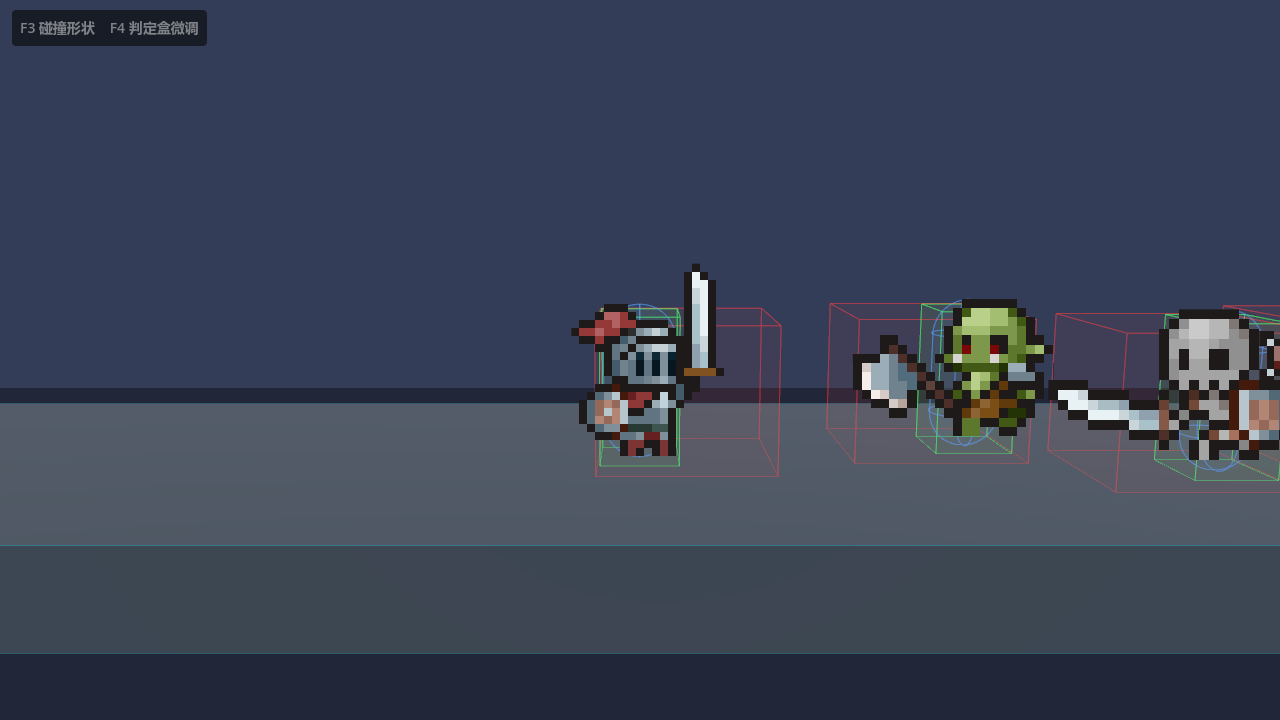
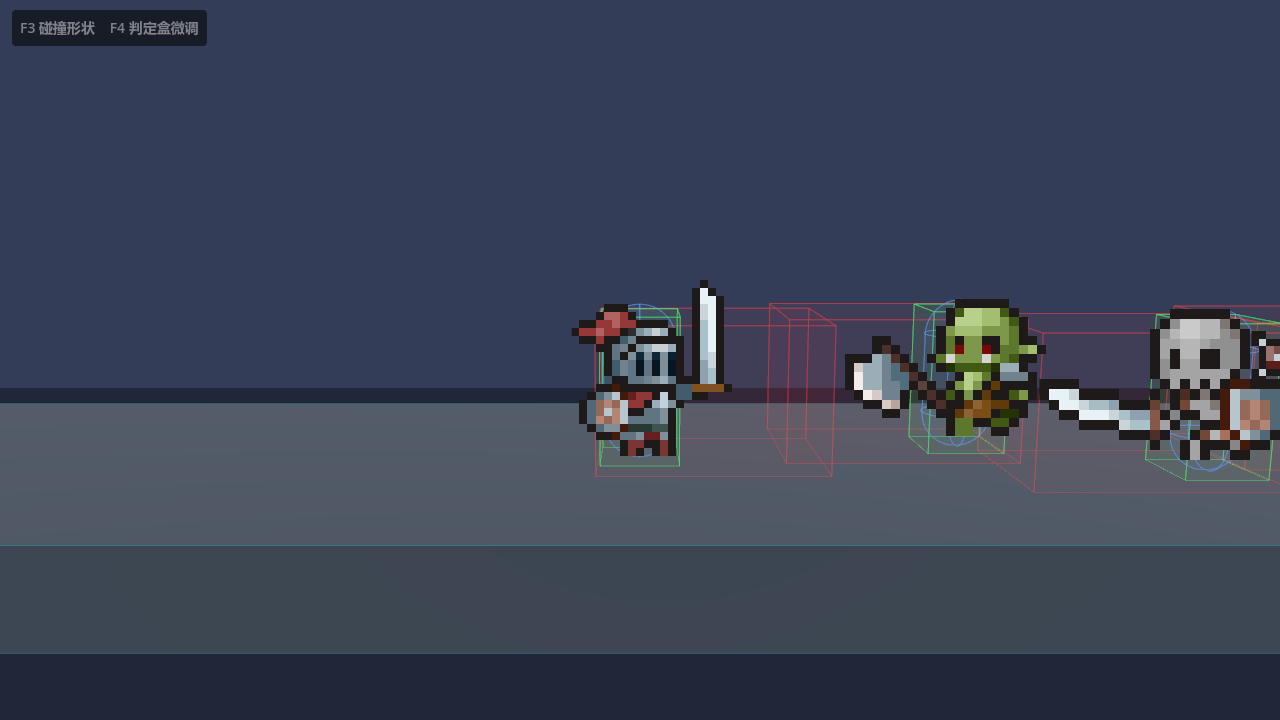
fix(combat): 判定盒前伸与判定窗口改成逐角色
之前所有角色共用一个 reach（1.45）和一段判定窗口（0.17~0.27 s），
但每个角色武器长短和动画节奏差很多：

  角色         武器挥到最远   原判定前沿
  knight        2.04 m       1.51 m
  orc           2.14 m       1.51 m
  skeleton      2.19 m       1.51 m
  armored_orc   1.98 m       1.51 m

主角剑长，1.51 m 看起来还包得住；orc 斧子短，盒子就明显超出去一截。
而且 0.17~0.27 s 那一段，很多角色还停在「武器收着」的帧上 ——
盒子会在武器没挥出去的时候亮着。

现在两个数都由 normalize_sprites.py 从图集算进 manifest：
  melee_reach    = attack1 里武器伸得最远的那一帧（相对身体锚点）
  melee_windup / melee_active = 前伸 >= 峰值 90% 的那几帧的时间段
GameRoot 按角色写进 melee.range 和 action_profile。

新增 1 个回归测试（每个角色的 reach 必须等于图集算出来的值）。

Changed region(s): [[0.5312, 0.3667, 1.0, 0.6722], [0.625, 0.6417, 0.6562, 0.6722]]

diff --git a/tools/normalize_sprites.py b/tools/normalize_sprites.py
@@ -81,6 +81,44 @@ def body_anchor_x(frames):
     return (body[0] + body[-1] + 1) * 0.5
 
 
+def melee_reach(frames, anchor_x, pixel_size):
+    """普攻前伸：attack1 里武器伸得最远的那一帧，相对身体锚点的米数。
+
+    判定盒前沿就用它。各角色武器长短差一倍（orc 2.14 m、armored_orc 1.98 m），
+    共用一个常量必然对不上 —— 剑长的角色盒子偏短，斧子短的角色盒子偏长。
+    """
+    far = 0
+    for frame in frames:
+        box = frame.getbbox()
+        if box is not None:
+            far = max(far, box[2])
+    return round(max(far - anchor_x, 0.0) * pixel_size, 3)
+
+
+SPRITE_FPS = 12.0
+
+
+def melee_window(frames, anchor_x, pixel_size, ratio=0.9):
+    """普攻判定窗口：武器真正挥出去的那几帧，返回 (windup 秒, active 秒)。
+
+    判定盒只在 ACTIVE 段亮，而 ACTIVE 段原来写死 0.17~0.27 秒 —— 各角色动画
+    长度不同，这一段经常落在「武器还收着」的帧上，看起来就是盒子比武器大一圈。
+    这里直接按图集算：前伸 >= 峰值 90% 的帧算判定帧。
+    """
+    extents = []
+    for frame in frames:
+        box = frame.getbbox()
+        extents.append((box[2] - anchor_x) * pixel_size if box is not None else 0.0)
+    peak = max(extents) if extents else 0.0
+    if peak <= 0.0:
+        return 0.0, 0.0
+    active = [i for i, e in enumerate(extents) if e >= peak * ratio]
+    if not active:
+        return 0.0, 0.0
+    first, last = active[0], active[-1]
+    return round(first / SPRITE_FPS, 3), round((last - first + 1) / SPRITE_FPS, 3)
+
+
 def main():
     with io.open(MANIFEST, encoding="utf-8") as f:
         manifest = json.load(f)
@@ -99,6 +137,16 @@ def main():
         anchor_x = body_anchor_x(
             load_frames(os.path.join(char_dir, anims[ref_name]["file"]), anims[ref_name]["frames"]))
         anchor_y = ref[3]                      # 脚底
+        # 必须在裁剪循环之前算 —— 裁剪会把图集覆盖成紧贴内容的版本，
+        # 之后再 load_frames 就按 100px 切不开了。
+        if "attack1" in anims:
+            attack_frames = load_frames(
+                os.path.join(char_dir, anims["attack1"]["file"]), anims["attack1"]["frames"])
+            entry["melee_reach"] = melee_reach(attack_frames, anchor_x, pixel_size)
+            windup, active = melee_window(attack_frames, anchor_x, pixel_size)
+            if windup > 0.0 and active > 0.0:
+                entry["melee_windup"] = windup
+                entry["melee_active"] = active
 
         for name, data in anims.items():
             box = boxes[name]

diff --git a/tools/gen_asset_spec.py b/tools/gen_asset_spec.py
@@ -42,8 +42,8 @@ assets/sprites/characters/<slug>/<slug>_shadow.png
 
 ## 3. 动画帧表（自动生成）
 
-| 角色 | 帧尺寸 | pixel_size | idle | walk | atk1 | atk2 | atk3 | block | hurt | death |
-|---|---|---|---|---|---|---|---|---|---|---|
+| 角色 | 帧尺寸 | pixel_size | idle | walk | atk1 | atk2 | atk3 | block | hurt | death | 普攻前伸 | 判定窗口 |
+|---|---|---|---|---|---|---|---|---|---|---|---|---|
 """
 
 
@@ -66,9 +66,13 @@ def main():
             else:
                 cells.append("-")
         idle_fs = a.get("idle", {}).get("frame_size", ["?", "?"])
-        rows.append("| %s `%s` | %sx%s | %.4f | %s |" % (
+        reach = float(e.get("melee_reach", 0.0))
+        windup = float(e.get("melee_windup", 0.0))
+        active = float(e.get("melee_active", 0.0))
+        window = "%.2f~%.2f s" % (windup, windup + active) if active > 0.0 else "-"
+        rows.append("| %s `%s` | %sx%s | %.4f | %s | %.2f m | %s |" % (
             e["display_name"], slug, idle_fs[0], idle_fs[1],
-            float(e.get("pixel_size", 0.0)), " | ".join(cells)))
+            float(e.get("pixel_size", 0.0)), " | ".join(cells), reach, window))
 
     tail = """
 ## 4. 多层视差背景

diff --git a/ASSET_SPEC.md b/ASSET_SPEC.md
@@ -28,28 +28,28 @@ assets/sprites/characters/<slug>/<slug>_shadow.png
 
 ## 3. 动画帧表（自动生成）
 
-| 角色 | 帧尺寸 | pixel_size | idle | walk | atk1 | atk2 | atk3 | block | hurt | death |
-|---|---|---|---|---|---|---|---|---|---|---|
-| Archer `archer` | 22x18 | 0.1000 | 22x18/6帧 | 22x18/8帧 | 37x22/9帧 | 63x38/12帧 | - | - | 22x17/4帧 | 27x17/4帧 |
-| Armored Axeman `armored_axeman` | 19x20 | 0.0900 | 19x20/6帧 | 19x22/8帧 | 42x31/9帧 | 50x32/9帧 | 63x31/12帧 | - | 15x18/4帧 | 34x21/4帧 |
-| Armored Orc `armored_orc` | 25x20 | 0.0900 | 25x20/6帧 | 25x21/8帧 | 32x31/7帧 | 38x19/8帧 | 62x23/9帧 | 25x19/4帧 | 26x19/4帧 | 42x21/4帧 |
-| Armored Skeleton `armored_skeleton` | 18x24 | 0.0750 | 18x24/6帧 | 18x26/8帧 | 46x26/8帧 | 38x35/9帧 | - | - | 18x23/4帧 | 29x25/4帧 |
-| Elite Orc `elite_orc` | 28x24 | 0.0750 | 28x24/6帧 | 28x24/8帧 | 49x37/7帧 | 58x31/11帧 | 52x46/9帧 | - | 29x23/4帧 | 45x25/4帧 |
-| Greatsword Skeleton `greatsword_skeleton` | 31x20 | 0.0900 | 31x20/6帧 | 33x20/9帧 | 62x32/9帧 | 68x37/12帧 | 42x25/8帧 | - | 32x20/4帧 | 35x21/4帧 |
-| Knight `knight` | 26x19 | 0.0947 | 26x19/6帧 | 26x19/8帧 | 30x26/7帧 | 45x30/10帧 | 58x33/11帧 | 26x18/4帧 | 20x20/4帧 | 26x18/4帧 |
-| Knight Templar `knight_templar` | 27x18 | 0.1000 | 27x18/6帧 | - | 36x17/7帧 | 36x31/8帧 | 39x31/11帧 | 27x17/4帧 | 28x17/4帧 | 28x19/4帧 |
-| Lancer `lancer` | 35x38 | 0.0474 | 35x38/6帧 | - | 57x29/6帧 | 57x29/9帧 | 54x30/8帧 | - | 35x34/4帧 | 40x37/4帧 |
-| Orc `orc` | 22x16 | 0.1125 | 22x16/6帧 | 22x16/8帧 | 37x29/6帧 | 38x33/6帧 | - | - | 23x15/4帧 | 30x18/4帧 |
-| Orc rider `orc_rider` | 32x29 | 0.0621 | 32x29/6帧 | 33x29/8帧 | 43x31/8帧 | 59x63/9帧 | 85x40/11帧 | 32x28/4帧 | 32x27/4帧 | 52x29/4帧 |
-| Priest `priest` | 16x21 | 0.0857 | 16x21/6帧 | 16x22/8帧 | - | - | - | - | 16x19/4帧 | 23x19/4帧 |
-| Skeleton `skeleton` | 26x16 | 0.1125 | 26x16/6帧 | 26x16/8帧 | 35x25/6帧 | 40x18/7帧 | - | 26x15/4帧 | 28x15/4帧 | 34x15/4帧 |
-| Skeleton Archer `skeleton_archer` | 21x22 | 0.0818 | 21x22/6帧 | 21x23/8帧 | - | - | - | - | 21x21/4帧 | 25x21/4帧 |
-| Slime `slime` | 25x17 | 0.1059 | 25x17/6帧 | 28x13/6帧 | 47x16/6帧 | 68x52/12帧 | - | - | 23x13/4帧 | 22x13/4帧 |
-| Soldier `soldier` | 15x19 | 0.0947 | 15x19/6帧 | 15x19/8帧 | 34x27/6帧 | 29x28/6帧 | 36x20/9帧 | - | 16x18/4帧 | 26x18/4帧 |
-| Swordsman `swordsman` | 24x22 | 0.0818 | 24x22/6帧 | 24x23/8帧 | 40x22/7帧 | 56x31/15帧 | - | - | 26x18/5帧 | 37x21/4帧 |
-| Werebear `werebear` | 19x18 | 0.1000 | 19x18/6帧 | 21x19/8帧 | 40x23/9帧 | 39x29/13帧 | 62x23/9帧 | - | 20x18/4帧 | 23x17/4帧 |
-| Werewolf `werewolf` | 27x17 | 0.1059 | 27x17/6帧 | 28x18/8帧 | 35x26/9帧 | 53x37/13帧 | - | - | 26x17/4帧 | 37x19/4帧 |
-| Wizard `wizard` | 17x20 | 0.0900 | 17x20/6帧 | 17x21/8帧 | 21x22/6帧 | 34x26/6帧 | - | - | 17x18/4帧 | - |
+| 角色 | 帧尺寸 | pixel_size | idle | walk | atk1 | atk2 | atk3 | block | hurt | death | 普攻前伸 | 判定窗口 |
+|---|---|---|---|---|---|---|---|---|---|---|---|---|
+| Archer `archer` | 22x18 | 0.1000 | 22x18/6帧 | 22x18/8帧 | 37x22/9帧 | 63x38/12帧 | - | - | 22x17/4帧 | 27x17/4帧 | 2.70 m | 0.50~0.58 s |
+| Armored Axeman `armored_axeman` | 19x20 | 0.0900 | 19x20/6帧 | 19x22/8帧 | 42x31/9帧 | 50x32/9帧 | 63x31/12帧 | - | 15x18/4帧 | 34x21/4帧 | 2.34 m | 0.33~0.42 s |
+| Armored Orc `armored_orc` | 25x20 | 0.0900 | 25x20/6帧 | 25x21/8帧 | 32x31/7帧 | 38x19/8帧 | 62x23/9帧 | 25x19/4帧 | 26x19/4帧 | 42x21/4帧 | 1.98 m | 0.33~0.50 s |
+| Armored Skeleton `armored_skeleton` | 18x24 | 0.0750 | 18x24/6帧 | 18x26/8帧 | 46x26/8帧 | 38x35/9帧 | - | - | 18x23/4帧 | 29x25/4帧 | 2.33 m | 0.33~0.50 s |
+| Elite Orc `elite_orc` | 28x24 | 0.0750 | 28x24/6帧 | 28x24/8帧 | 49x37/7帧 | 58x31/11帧 | 52x46/9帧 | - | 29x23/4帧 | 45x25/4帧 | 1.95 m | 0.25~0.33 s |
+| Greatsword Skeleton `greatsword_skeleton` | 31x20 | 0.0900 | 31x20/6帧 | 33x20/9帧 | 62x32/9帧 | 68x37/12帧 | 42x25/8帧 | - | 32x20/4帧 | 35x21/4帧 | 3.46 m | 0.42~0.58 s |
+| Knight `knight` | 26x19 | 0.0947 | 26x19/6帧 | 26x19/8帧 | 30x26/7帧 | 45x30/10帧 | 58x33/11帧 | 26x18/4帧 | 20x20/4帧 | 26x18/4帧 | 2.04 m | 0.25~0.42 s |
+| Knight Templar `knight_templar` | 27x18 | 0.1000 | 27x18/6帧 | - | 36x17/7帧 | 36x31/8帧 | 39x31/11帧 | 27x17/4帧 | 28x17/4帧 | 28x19/4帧 | 2.90 m | 0.33~0.58 s |
+| Lancer `lancer` | 35x38 | 0.0474 | 35x38/6帧 | - | 57x29/6帧 | 57x29/9帧 | 54x30/8帧 | - | 35x34/4帧 | 40x37/4帧 | 1.80 m | 0.25~0.42 s |
+| Orc `orc` | 22x16 | 0.1125 | 22x16/6帧 | 22x16/8帧 | 37x29/6帧 | 38x33/6帧 | - | - | 23x15/4帧 | 30x18/4帧 | 2.14 m | 0.25~0.42 s |
+| Orc rider `orc_rider` | 32x29 | 0.0621 | 32x29/6帧 | 33x29/8帧 | 43x31/8帧 | 59x63/9帧 | 85x40/11帧 | 32x28/4帧 | 32x27/4帧 | 52x29/4帧 | 1.68 m | 0.33~0.58 s |
+| Priest `priest` | 16x21 | 0.0857 | 16x21/6帧 | 16x22/8帧 | - | - | - | - | 16x19/4帧 | 23x19/4帧 | 0.00 m | - |
+| Skeleton `skeleton` | 26x16 | 0.1125 | 26x16/6帧 | 26x16/8帧 | 35x25/6帧 | 40x18/7帧 | - | 26x15/4帧 | 28x15/4帧 | 34x15/4帧 | 2.19 m | 0.25~0.42 s |
+| Skeleton Archer `skeleton_archer` | 21x22 | 0.0818 | 21x22/6帧 | 21x23/8帧 | - | - | - | - | 21x21/4帧 | 25x21/4帧 | 0.00 m | - |
+| Slime `slime` | 25x17 | 0.1059 | 25x17/6帧 | 28x13/6帧 | 47x16/6帧 | 68x52/12帧 | - | - | 23x13/4帧 | 22x13/4帧 | 3.49 m | 0.25~0.42 s |
+| Soldier `soldier` | 15x19 | 0.0947 | 15x19/6帧 | 15x19/8帧 | 34x27/6帧 | 29x28/6帧 | 36x20/9帧 | - | 16x18/4帧 | 26x18/4帧 | 1.90 m | 0.25~0.42 s |
+| Swordsman `swordsman` | 24x22 | 0.0818 | 24x22/6帧 | 24x23/8帧 | 40x22/7帧 | 56x31/15帧 | - | - | 26x18/5帧 | 37x21/4帧 | 2.46 m | 0.25~0.42 s |
+| Werebear `werebear` | 19x18 | 0.1000 | 19x18/6帧 | 21x19/8帧 | 40x23/9帧 | 39x29/13帧 | 62x23/9帧 | - | 20x18/4帧 | 23x17/4帧 | 3.00 m | 0.42~0.58 s |
+| Werewolf `werewolf` | 27x17 | 0.1059 | 27x17/6帧 | 28x18/8帧 | 35x26/9帧 | 53x37/13帧 | - | - | 26x17/4帧 | 37x19/4帧 | 2.59 m | 0.42~0.58 s |
+| Wizard `wizard` | 17x20 | 0.0900 | 17x20/6帧 | 17x21/8帧 | 21x22/6帧 | 34x26/6帧 | - | - | 17x18/4帧 | - | 1.17 m | 0.25~0.42 s |
 
 ## 4. 多层视差背景
 

diff --git a/CLAUDE.md b/CLAUDE.md
@@ -108,6 +108,13 @@ python -I tools/gen_asset_spec.py
 4. **中心只由 Area3D 的 position 决定**，形状节点必须留在原点。两处各带一个 y 偏移
    会叠加（0.9 + 0.86 = 1.76），整个盒子浮到头顶，看着完全没对上角色。
    盒子的 y 从脚底起算，margin 只往顶部放，别钻到地板下面。
+5. **前伸和判定窗口逐角色**，都从图集算进 manifest（`normalize_sprites.py`）：
+   - `melee_reach`：attack1 里武器挥得最远的那一帧，相对身体锚点的米数。
+     共用一个 reach 的话，长枪和短斧必然有一个对不上（knight 2.04 / orc 2.14 /
+     armored_orc 1.98，差一倍）。
+   - `melee_windup` / `melee_active`：武器真正伸出去的那几帧的时间段。
+     原来所有角色共用 0.17~0.27 s，很多角色那一段还停在「武器收着」的帧上，
+     判定盒就会在武器没挥出去的时候亮着 —— 看起来就是盒子比武器大一圈。
 
 ## 判定盒微调（F4）
 
@@ -134,7 +141,7 @@ python -I tools/gen_asset_spec.py
 
 可运行：组合根装配 → 玩家 + 3 个敌人 → 动作状态机 → 技能相位 → 窄相命中 → 伤害管线 →
 打击感反馈（顿帧/震屏/闪白/跳字）→ 波次与存档快照。
-319 个测试（GdUnit4，46 个 suite）全绿，架构检查通过。
+320 个测试（GdUnit4，46 个 suite）全绿，架构检查通过。
 其中 4 个是场景端到端（真跑 main.tscn），10 个是领域端到端。
 
 待接入：真实关卡美术与视差背景、音效、联机同步、天赋 UI。
